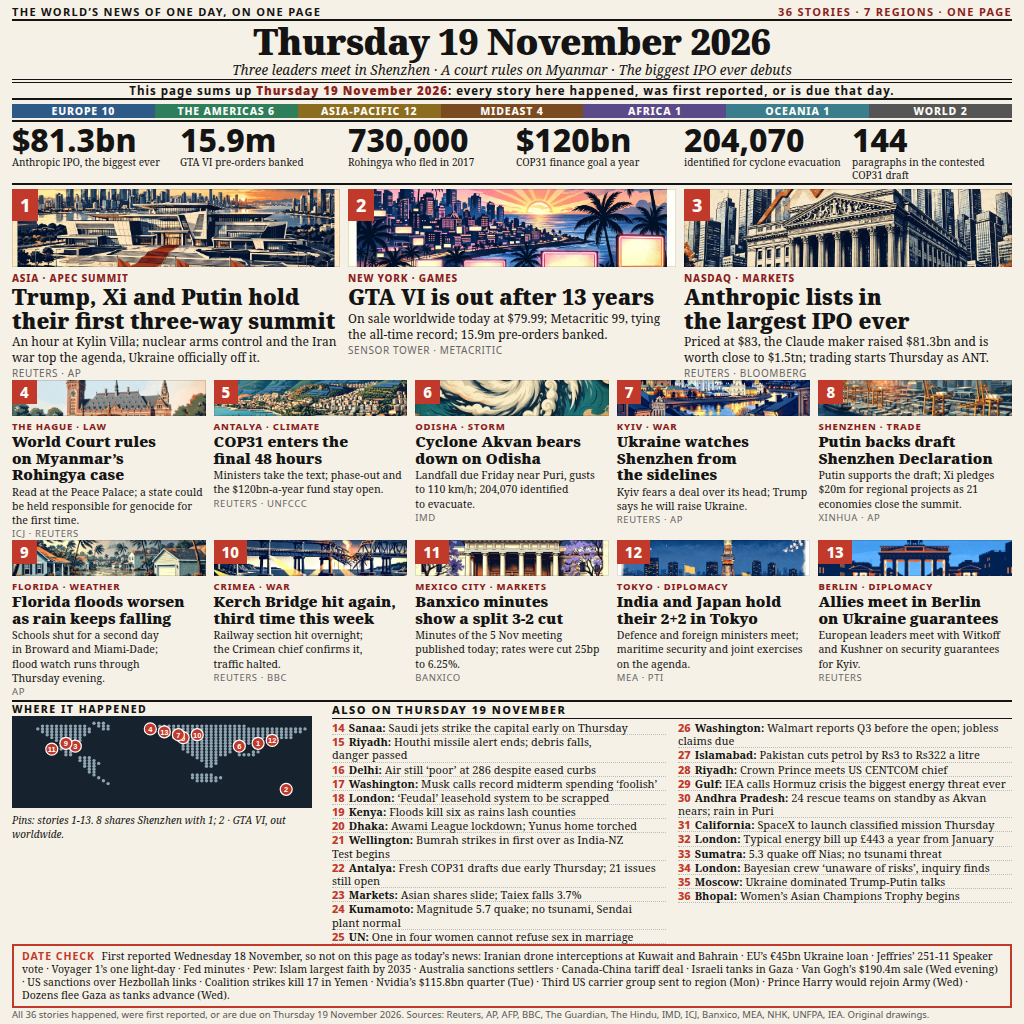
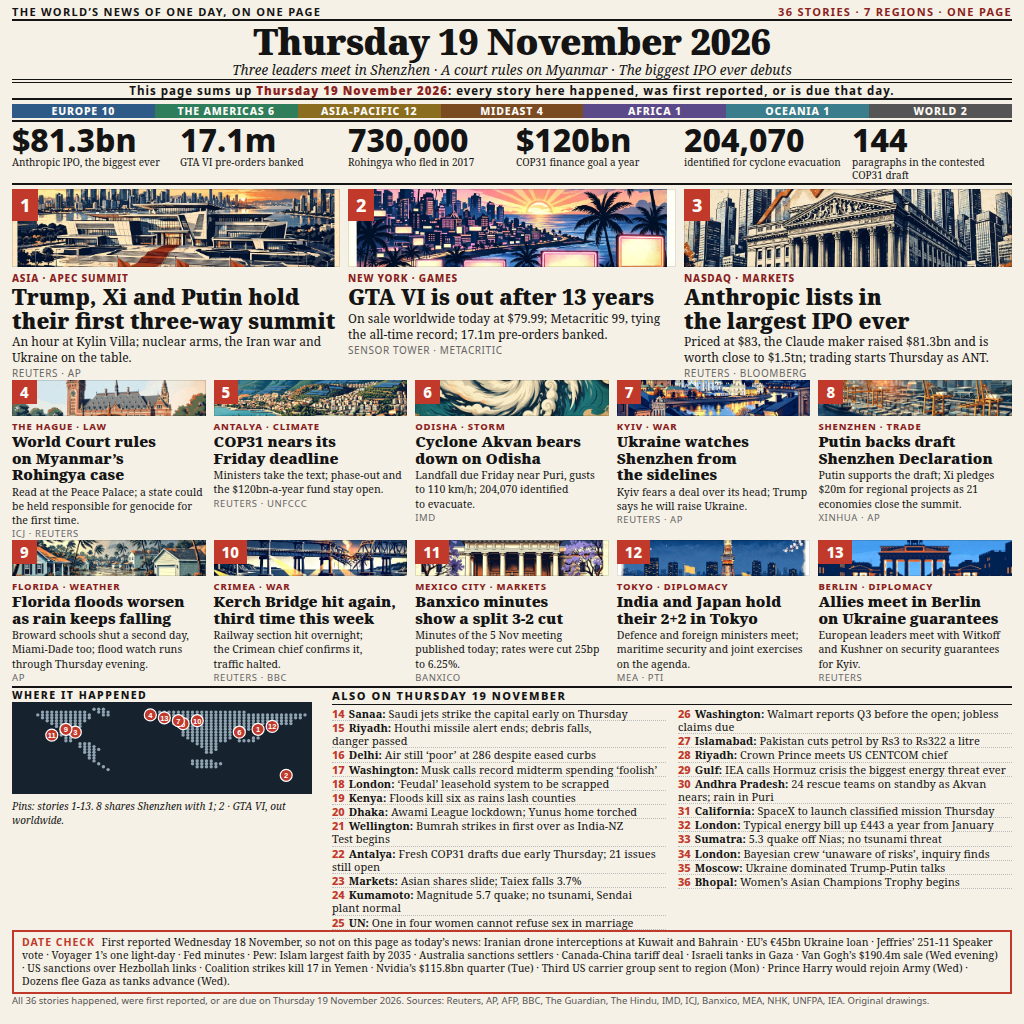
news-image-20261119: round 4 compliance fixes — #1 Ukraine wording, #5 COP31 deadline, #9 Miami-Dade schools, GTA pre-orders 15.9m -> 17.1m
Independent audit (work/REVISION-R4-COMPLIANCE.md) found 4 failures:
- #1 body claimed Ukraine was 'officially off' the trilateral agenda;
  Trump said 16 Nov he will raise Ukraine, and Reuters 19 Nov reports
  Ukraine dominated the Trump-Putin bilateral. Also contradicted #7.
- #5 'final 48 hours' is off by a day (COP31 closes Fri 20 Nov).
- #9 claimed Miami-Dade schools shut a second day; Miami-Dade was open
  Wed, closed only Thu (only Broward is on day 2).
- GTA VI pre-orders 15.9m was Sensor Tower's Nov 17 reading; Nov 18
  reading is 17.07m / $1.65bn (Reuters 19 Nov).
Rebuilt deterministically (2 runs byte-identical), 1024x1024, 685,493 bytes.
main.ts untouched. No bundle, no submit.

diff --git a/README.md b/README.md
@@ -4,7 +4,7 @@
 [![rank](https://make.fun/badge/news-image-20261119/pesertaerdrop/news-image-19nov-entry/rank.svg)](https://make.fun/bounty/news-image-20261119/leaderboard?utm_source=github&utm_medium=readme&utm_campaign=news-image-20261119)
 [![reward](https://make.fun/badge/news-image-20261119/pesertaerdrop/news-image-19nov-entry/reward.svg)](https://make.fun/bounty/news-image-20261119?utm_source=github&utm_medium=readme&utm_campaign=news-image-20261119)
 
-**Thursday 19 November 2026: the world in one image — 36 stories, three leaders, one debut** — 36 stories, 7 regions, one page. Thirteen illustrated lead stories (the first-ever Trump–Xi–Putin trilateral in Shenzhen, GTA VI's release after 13 years, Anthropic's record $81.3bn IPO debut, the World Court's Myanmar ruling, COP31's final 48 hours, Cyclone Akvan, Ukraine watching Shenzhen, the draft Shenzhen Declaration, Florida's second day of floods, the Kerch Bridge hit again, Banxico's split minutes, the India–Japan 2+2, and allies meeting in Berlin), a world map of where it happened, 23 more briefs, a six-number stat strip and a date check of what was deliberately left out. Every story happened, was first reported, or is due on Thursday 19 November 2026. All thirteen illustrations were generated from structured prompts built with prompts.chat (`npx prompts.chat`); the page itself is HTML/CSS rendered to a 1024×1024 PNG, and the program simply copies that image to the output.
+**Thursday 19 November 2026: the world in one image — 36 stories, three leaders, one debut** — 36 stories, 7 regions, one page. Thirteen illustrated lead stories (the first-ever Trump–Xi–Putin trilateral in Shenzhen, GTA VI's release after 13 years, Anthropic's record $81.3bn IPO debut, the World Court's Myanmar ruling, COP31's Friday deadline, Cyclone Akvan, Ukraine watching Shenzhen, the draft Shenzhen Declaration, Florida floods worsen, the Kerch Bridge hit again, Banxico's split minutes, the India–Japan 2+2, and allies meeting in Berlin), a world map of where it happened, 23 more briefs, a six-number stat strip and a date check of what was deliberately left out. Every story happened, was first reported, or is due on Thursday 19 November 2026. All thirteen illustrations were generated from structured prompts built with prompts.chat (`npx prompts.chat`); the page itself is HTML/CSS rendered to a 1024×1024 PNG, and the program simply copies that image to the output.
 
 ## Run it
 
